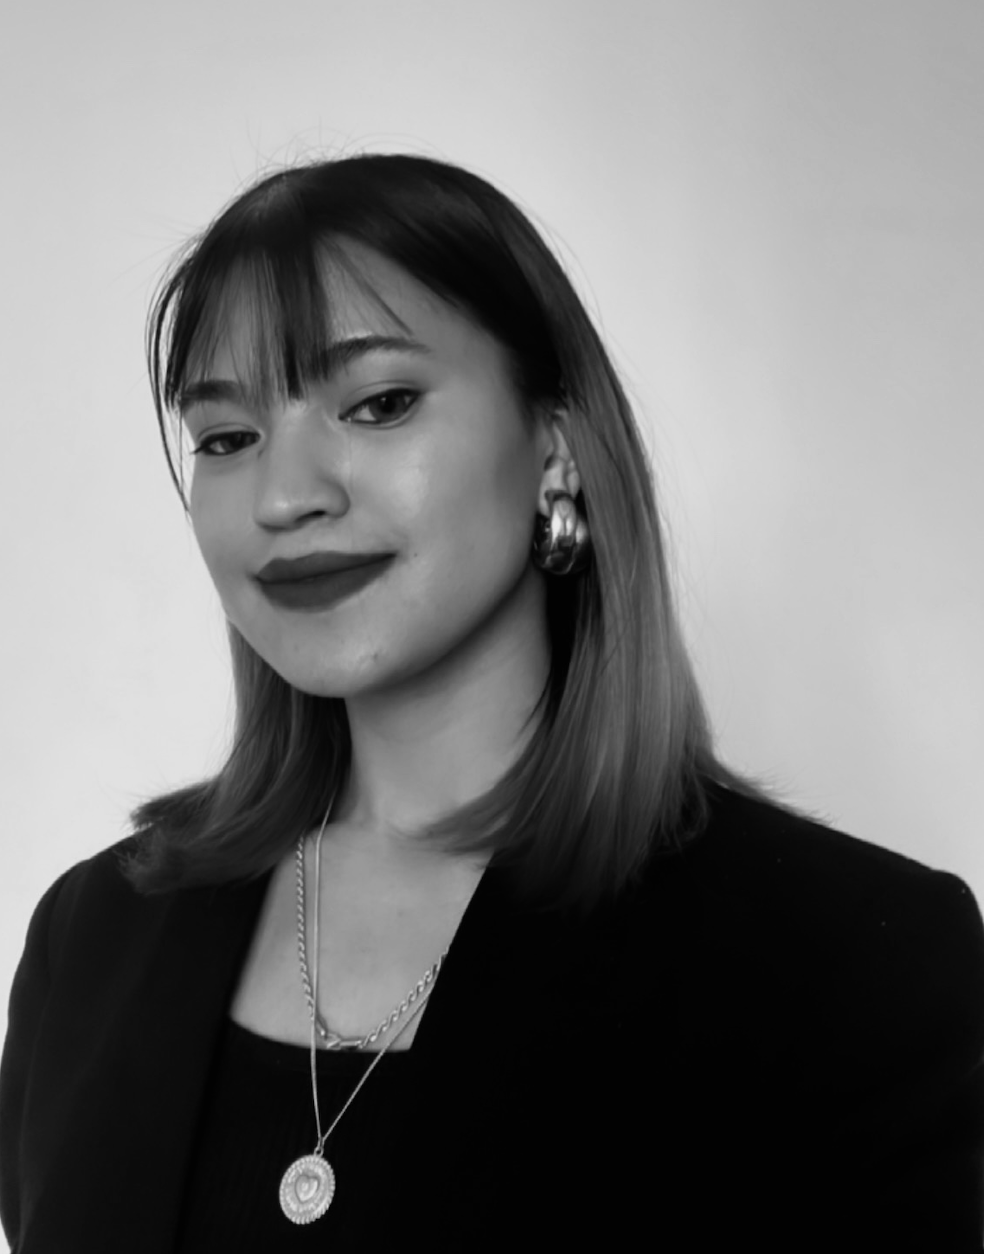
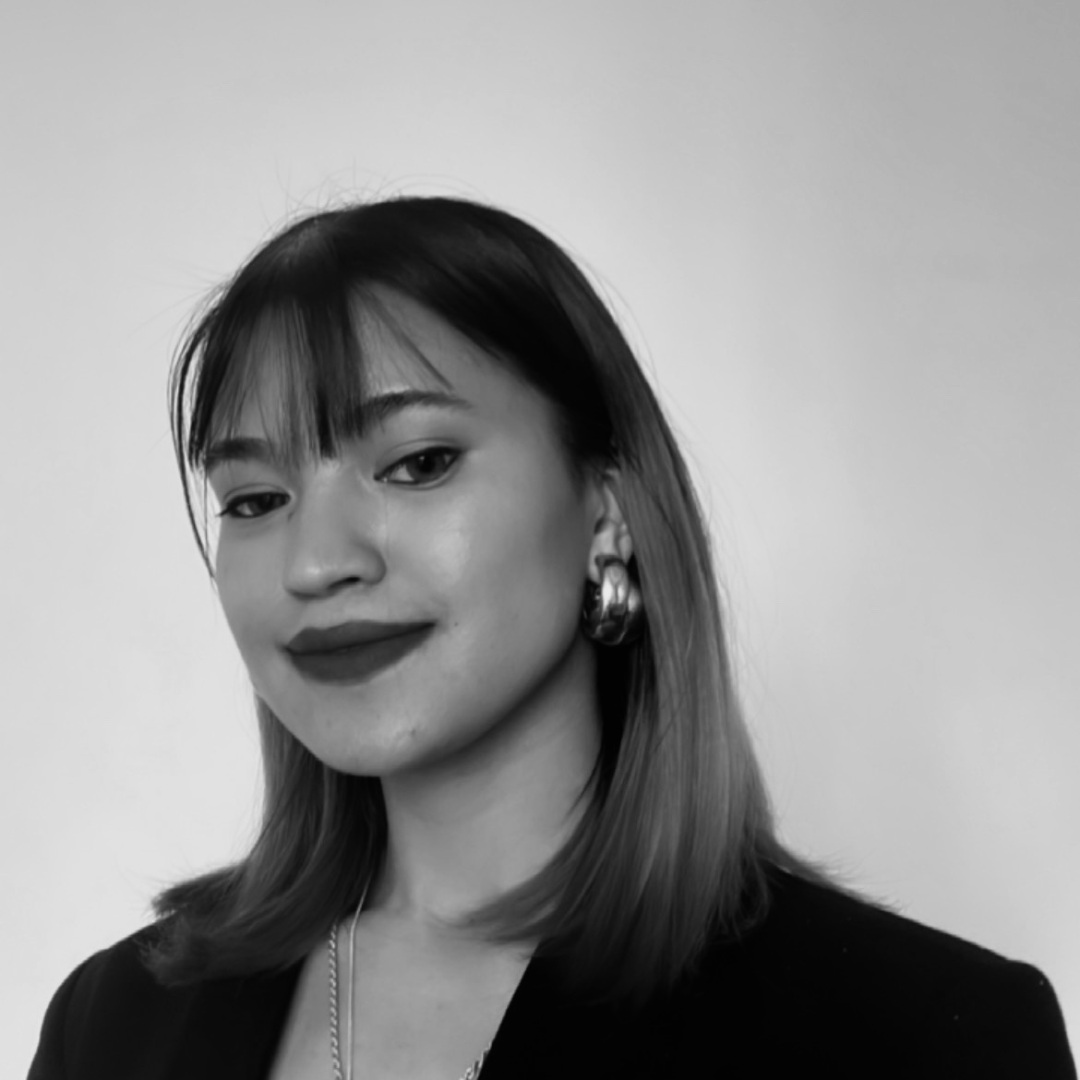
file update

diff --git a/project.html b/project.html
@@ -38,53 +38,48 @@
 				<!-- Main -->
 					<div id="main">
 
-						<!-- Post -->
-							<section class="post">
-								<header class="major">
-									<h1>Projects</h1>
+						<section class="posts">
+							<article>
+								<header>
+									
+									<h2>Sydney Property <br />
+										Market Analysis</h2>
 								</header>
-								<section class="posts">
-									<article class="center">
-										<header>
-											<span class="date">April 24, 2017</span>
-											<h2><a href="#">Sydney Property <br />
-												Market Analysis</a></h2>
-										</header>
-										<a href="#" class="image main"><img src="images/sydney.jpg" alt="" style="width:500px;height:600px;"></a>
-										<p>Understanding Factors Influencing Property Prices and Suburb Desirability</p>
-										<ul class="actions special">
-											<li><a href="#" class="button">View Project</a></li>
-										</ul>
-									</article>
-									<article class="center">
-										<header>
-											<span class="date">April 22, 2017</span>
-											<h2><a href="#">Classification of IED<br />
-											from public dustbins</a></h2>
-										</header>
-										<a href="#" class="image fit"><img src="images/dustbin.jpg" alt="" style="width:500px;height:600px;"></a>
-										<p>Identifying IED from dustbin by the use of Vision transformer</p>
-										<ul class="actions special">
-											<li><a href="#" class="button">View Project</a></li>
-										</ul>
-									</article>
-									<article class="center">
-										<header>
-											<span class="date">April 18, 2017</span>
-											<h2><a href="#">Diabetes Dataset <br />
-											Analysis and Prediction</a></h2>
-										</header>
-										<a href="#" class="image fit"><img src="images/diabetes.jpg" alt="" style="width:500px;height:650px;"></a>
-										<p>Analysing the diabetes among the pregnant women</p>
-										<ul class="actions special">
-											<li><a href="#" class="button">View Project</a></li>
-										</ul>
-									</article>
+								<img src="images/sydney.png" alt="" class="image main">
+								<p>Understanding Factors Influencing Property Prices and Suburb Desirability</p>
+								<ul class="actions special">
+									<li><a href="https://github.com/nirjanashrestha4/Sydney_Property_Market_Analysis" class="button">View Project</a></li>
+								</ul>
+							</article>
+							<article>
+								<header>
+									<h2>Classification of IED<br />
+									from public dustbins</h2>
+								</header>
+								<img src="images/dustbin.png" alt="" class="image main">
+								<p>Identifying IED from dustbin by the use of Vision transformer</p>
+								<ul class="actions special">
+									<li><a href="https://github.com/nirjanashrestha4/Detection_of_IED_using_VisionTransformer" class="button">View Project</a></li>
+								</ul>
+							</article>
+							<article class="center">
+								<header>
+									
+									<h2>Diabetes Dataset <br />
+									Analysis and Prediction</h2>
+								</header>
+								<img src="images/diabetes.png" alt="" class="image main">
+								<p>Analysing the diabetes among the pregnant women</p>
+								<ul class="actions special">
+									<li><a href="https://github.com/nirjanashrestha4/Diabetes_Dataset_Analysis_and_Prediction" class="button">View Project</a></li>
+								</ul>
+							</article>
+					
 							
-									
-									
-								</section>
-	
+							
+						</section>
+						<!-- Post -->
+							
 							
 
 				<!-- Footer -->

diff --git a/home.html b/home.html
@@ -17,7 +17,7 @@
 						Portfolio</h1>
 						<p>Data Analyst well verse in SQL, Excel, Python, Power Bi<br />
 							<a href="https://www.linkedin.com/in/nirjanashrestha/">@NirjanaShrestha</a></p>
-							<a href="#" class="image main"><img src="images/Nirjana Shrestha cover.png" alt="Nirjana Shrestha's cover" /></a>
+							<img src="images/Nirjana Shrestha cover.png" class="image main" alt="Nirjana Shrestha's cover">
 						<ul class="actions">
 							<li><a href="#header" class="button icon solid solo fa-arrow-down scrolly">Continue</a></li>
 						</ul>
@@ -47,19 +47,21 @@
 					<div id="main">
 
 						<!-- Featured Post -->
-							<article class="post featured">
+						
+							
+							<section class="post">
 								<header class="major">
-									<h2><a href="#">A bit about me</a></h2>
+									<h1>A bit about me</h1>
 									<p>I am currently pursuing a Master of ICT Research in Sydney, Australia.
 										I have successfully completed three  data science projects and 
-										continue to explore further opportunities to expand my knowledge and skills in these areas.
-									</p>
+										continue to explore further opportunities to expand my knowledge and skills in these areas.</p>
 								</header>
-								<a href="#" class=""><img src="images/nirjana.png" alt="Nirjana Shrestha's image" style="width:500px;height:600px;">
-								<ul class="actions special">
-									<li><a href="about.html" class="button large">Full Story</a></li>
-								</ul>
-							</article>
+								<img src="images/nirjana.png" alt="Nirjana Shrestha's image"style="width:500;height:600;"class="center">
+									<p></p>
+									<ul class="actions special">
+										<li><a href="about.html" class="button large">Full Story</a></li>
+									</ul>
+								</section>
 							
 								<header class="major">
 									<h2><a href="#">Projects</a></h2>
@@ -72,7 +74,7 @@
 										<h2>Sydney Property <br />
 											Market Analysis</h2>
 									</header>
-									<img src="images/sydney.jpg" alt="" style="width:500px;height:600px;">
+									<img src="images/sydney.png" alt="" class="image main">
 									<p>Understanding Factors Influencing Property Prices and Suburb Desirability</p>
 									<ul class="actions special">
 										<li><a href="https://github.com/nirjanashrestha4/Sydney_Property_Market_Analysis" class="button">View Project</a></li>
@@ -83,7 +85,7 @@
 										<h2>Classification of IED<br />
 										from public dustbins</h2>
 									</header>
-									<img src="images/dustbin.jpg" alt="" style="width:500px;height:600px;">
+									<img src="images/dustbin.png" alt="" class="image main">
 									<p>Identifying IED from dustbin by the use of Vision transformer</p>
 									<ul class="actions special">
 										<li><a href="https://github.com/nirjanashrestha4/Detection_of_IED_using_VisionTransformer" class="button">View Project</a></li>
@@ -95,7 +97,7 @@
 										<h2>Diabetes Dataset <br />
 										Analysis and Prediction</h2>
 									</header>
-									<img src="images/diabetes.jpg" alt="" style="width:500px;height:650px;">
+									<img src="images/diabetes.png" alt="" class="image main">
 									<p>Analysing the diabetes among the pregnant women</p>
 									<ul class="actions special">
 										<li><a href="https://github.com/nirjanashrestha4/Diabetes_Dataset_Analysis_and_Prediction" class="button">View Project</a></li>
